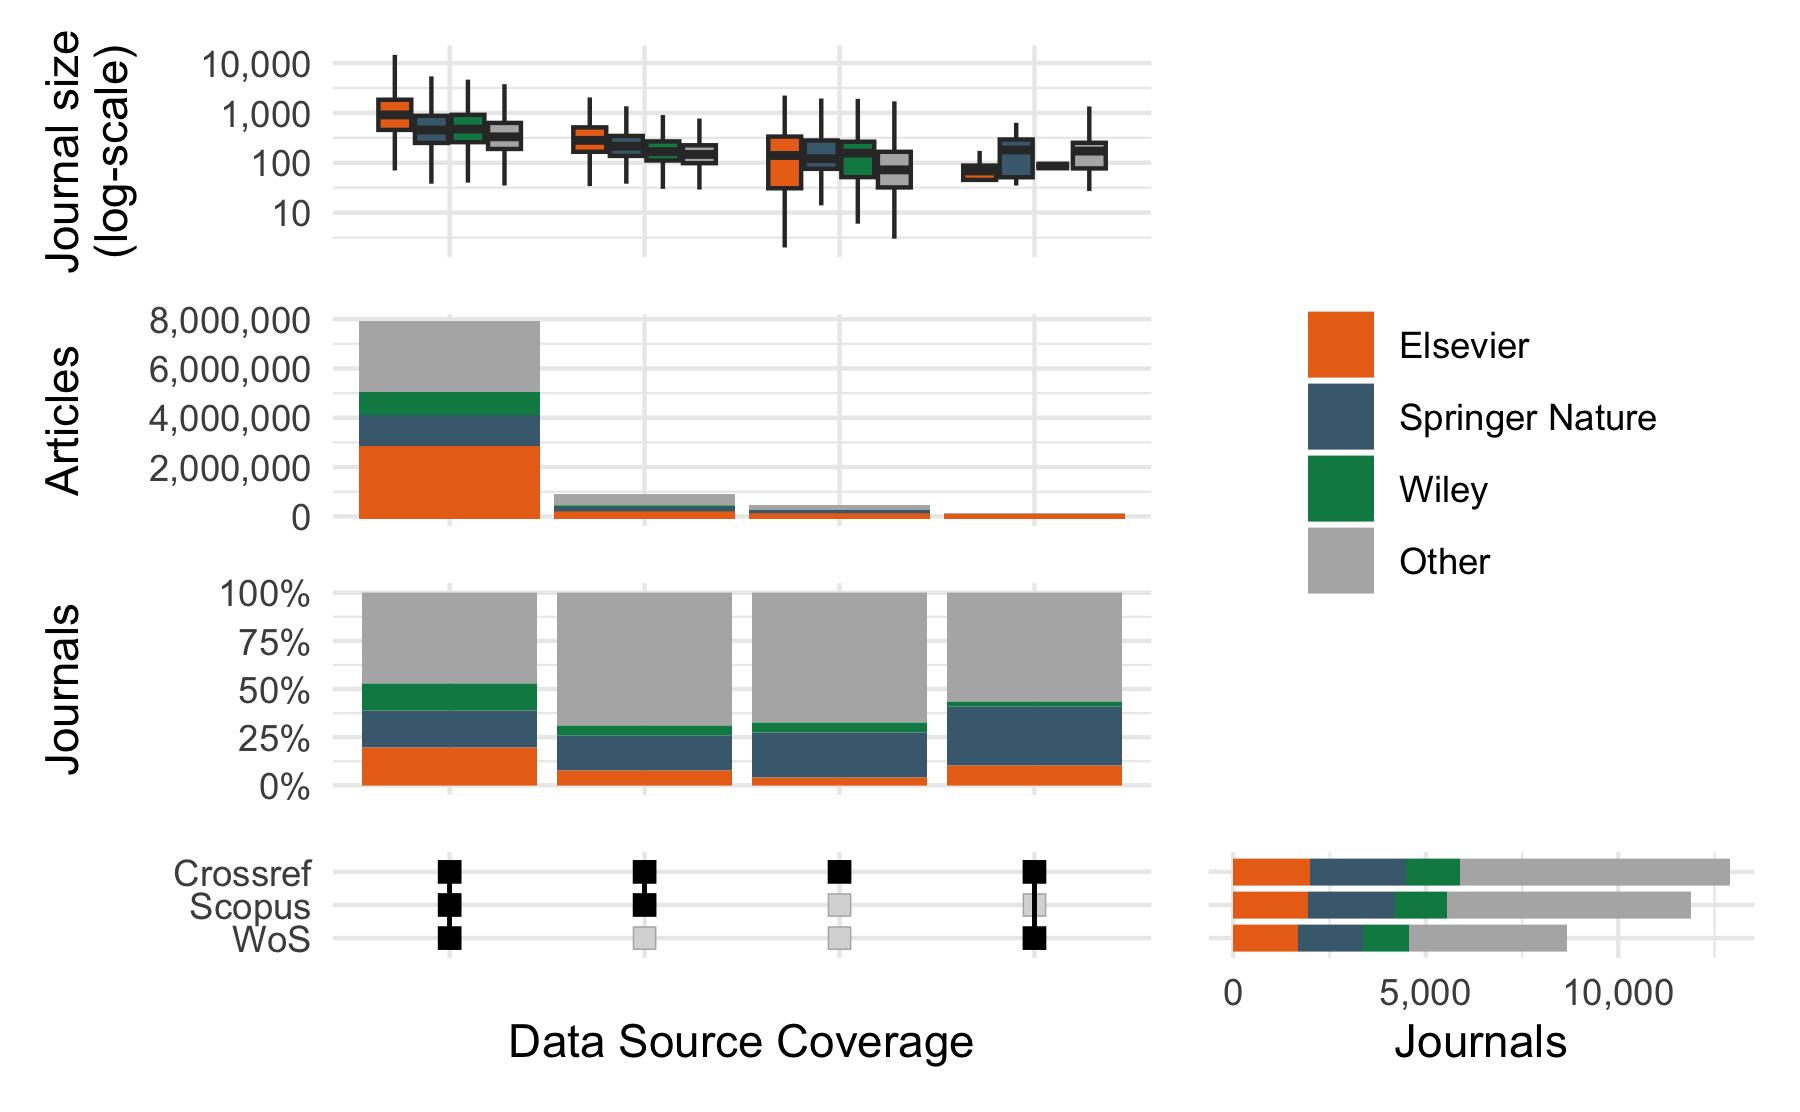
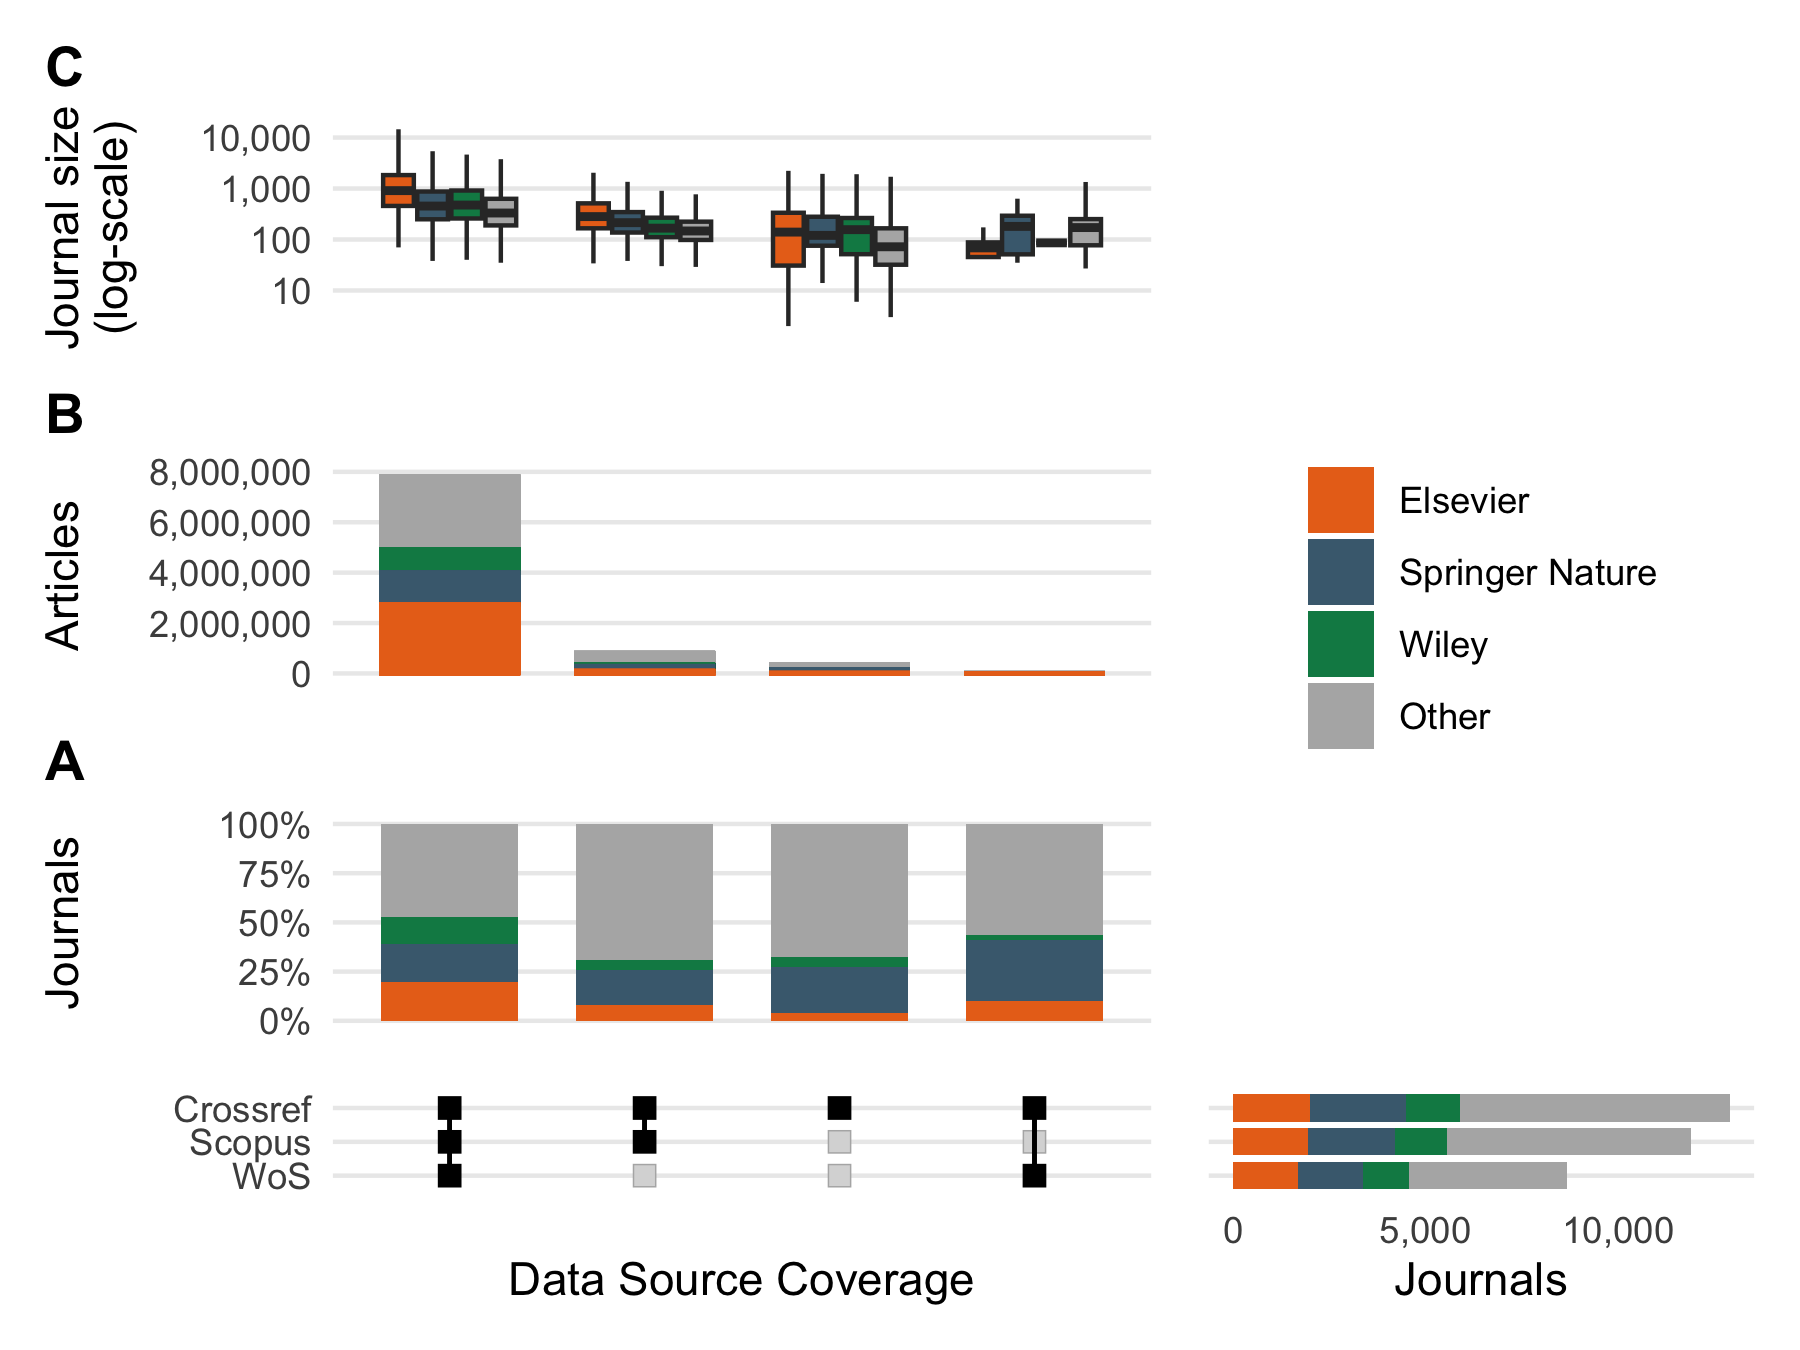
Style upset plots

diff --git a/analysis/results.md b/analysis/results.md
@@ -16,6 +16,15 @@ bq_con <- dbConnect(
   billing = "subugoe-collaborative",
   project = "subugoe-collaborative"
 )
+
+# Set themes for plots
+my_base_size = 12
+
+my_upset_theme <-
+  theme(panel.grid.minor = element_blank(),
+        panel.grid.major.x = element_blank(),
+        plot.title.position="plot",
+        plot.title = element_text(hjust = 0, vjust = 1, face = "bold"))
 ```
 
 ## Research questions
@@ -211,10 +220,34 @@ jn_upset_articles <- jn_upset_ |>
   left_join(doi_overlap, by = "issn_l") 
 
 # Backup
+jn_upset_articles
+#> # A tibble: 12,921 × 11
+#>    issn_l     n_cr Crossref n_wos WoS   n_scp Scopus     n doi_in_wos_and_scopus
+#>    <chr>     <int> <lgl>    <int> <lgl> <int> <lgl>  <int>                 <dbl>
+#>  1 0001-0782  1467 TRUE      1625 TRUE   1464 TRUE    1467                  1282
+#>  2 0001-1541  1844 TRUE      1953 TRUE   1939 TRUE    1844                  1807
+#>  3 0001-2092  1359 TRUE      1463 TRUE   1040 TRUE    1359                   868
+#>  4 0001-2785   875 TRUE        NA FALSE    NA FALSE    875                     0
+#>  5 0001-2998   326 TRUE       336 TRUE    343 TRUE     326                   314
+#>  6 0001-3072   144 TRUE       142 TRUE    141 TRUE     144                   141
+#>  7 0001-3455   120 TRUE        NA FALSE    NA FALSE    120                     0
+#>  8 0001-4338   793 TRUE       757 TRUE    765 TRUE     793                   723
+#>  9 0001-4346  1108 TRUE      1023 TRUE    993 TRUE    1108                   988
+#> 10 0001-4370   526 TRUE       526 TRUE    525 TRUE     526                   525
+#> # ℹ 12,911 more rows
+#> # ℹ 2 more variables: doi_in_scopus <dbl>, doi_in_wos <dbl>
 write_csv(jn_upset_articles, here::here("data/jn_upset_articles.csv"))
 ```
 
 ``` r
+# Helper function to make text labels the same size as axis labels as seen in
+# <https://wjschne.github.io/posts/making-text-labels-the-same-size-as-axis-labels-in-ggplot2/>
+# Todo: Learn how to invoke it
+ggtext_size <- function(base_size, ratio = 0.8) {
+  ratio * base_size / ggplot2::.pt
+}
+
+bar_width <- 0.7
 size <- get_size_mode("exclusive_intersection")
 
 upset_overview <- ComplexUpset::upset(
@@ -222,53 +255,78 @@ upset_overview <- ComplexUpset::upset(
   c("Crossref", "WoS", "Scopus"),
   # Only journals in Crossref
   min_size = 30,
-  width_ratio = 0.4,
   set_sizes = FALSE,
   stripes = "transparent",
- # wrap = TRUE,
+  # wrap = TRUE,
   name = "Data Source Coverage",
   base_annotations = list(
     "Journals" = (
       ComplexUpset::intersection_size(
         counts = TRUE,
-        text = list(size = 9 / .pt),
+        text = list(size = 8 / .pt),
         text_mapping = aes(
           label = paste0(!!upset_text_percentage(), '\n(', !!size, ')'),
           colour = ifelse(!!size > 5000, 'on_bar', 'on_background'),
           y = ifelse(!!size > 5000, !!size - 4000, !!size)
-        )
+        ), width = bar_width
       ) +
-        scale_y_continuous(labels = scales::number_format(big.mark = ","))
+        scale_y_continuous(labels = scales::number_format(big.mark = ",")) +
+        ggtitle("A")
     )
   ),
-  annotations = list("Journal size\n(log scale)" = (
-    ggplot(mapping = aes(x = intersection, y = n)) +
-      geom_boxplot(outliers = FALSE) +
-      scale_y_log10(labels =  scales::number_format(big.mark = ","))),
-    "Articles" = (ggplot(mapping = aes(y = n_cr)) +
-                        geom_bar(stat = "identity", color = "grey80", aes(fill = "in Crossref only")) +
-                        geom_bar(aes(y = doi_in_wos_and_scopus, fill = "Shared"), stat = "identity", color = "#0093c7") +
-                        geom_bar(aes(y = doi_in_wos, fill = "Shared"), stat = "identity", color = "#0093c7") +
-                        geom_bar(aes(y = doi_in_scopus, fill = "Shared"), stat = "identity", color = "#0093c7") +
-                        scale_fill_manual(values = c(`in Crossref only` = "grey80", `Shared` = "#0093c7"), name = "") +
-                        scale_y_continuous(labels =  scales::number_format(big.mark = ",")) +
-                        theme(
-    legend.position = "top",
-    legend.justification = "right"
-  ) +
-    guides(fill = "none")
-    )),
-   matrix = (
-        intersection_matrix(
-            geom = geom_point(
-                shape = "square",
-                size = 2
-            )))
-        ) 
-upset_overview
+  annotations = list(
+    "Journal size\n(log scale)" = (
+      ggplot(mapping = aes(x = intersection, y = n)) +
+        geom_boxplot(outliers = FALSE, width = bar_width) +
+        scale_y_log10(labels =  scales::number_format(big.mark = ",")) +
+        ggtitle("C")
+    ),
+    "Articles" = (
+      ggplot(mapping = aes(y = n_cr)) +
+        geom_bar(
+          stat = "identity",
+          color = "grey80",
+          width = bar_width,
+          aes(fill = "in Crossref only")
+        ) +
+        geom_bar(
+          aes(y = doi_in_wos_and_scopus, fill = "Shared"),
+          stat = "identity",
+          width = bar_width,
+          color = "#0093c7"
+        ) +
+        geom_bar(
+          aes(y = doi_in_wos, fill = "Shared"),
+          stat = "identity",
+          width = bar_width,
+          color = "#0093c7"
+        ) +
+        geom_bar(
+          aes(y = doi_in_scopus, fill = "Shared"),
+          stat = "identity",
+          width = bar_width,
+          color = "#0093c7"
+        ) +
+        scale_fill_manual(
+          values = c(
+            `in Crossref only` = "grey80",
+            `Shared` = "#0093c7"
+          ),
+          name = "DOI"
+        ) +
+        scale_y_continuous(labels =  scales::number_format(big.mark = ",")) +
+        ggtitle("B")
+    )
+  ),
+  matrix = (intersection_matrix(geom = geom_point(
+    shape = "square", size = 2
+  )))
+)
+upset_overview & my_upset_theme
 ```
 
 <img src="results_files/figure-gfm/journal_article_overlap_upset-1.png" width="70%" style="display: block; margin: auto;" />
+
 The plot is limited to journals, which are indexed in Crossref. However,
 there are 33 journals not incldued in Crossref, but in WoS or Scopus:
 
@@ -417,7 +475,7 @@ upset_publisher_plot <- ComplexUpset::upset(
   annotations = list(
     "Journal size\n(log-scale)" = (
       ggplot(mapping = aes(x = intersection, y = n, fill = fct_rev(publisher))) +
-        geom_boxplot(outliers = FALSE) +
+        geom_boxplot(outliers = FALSE, width = bar_width) +
         scale_fill_manual(
           "",
           values = c(
@@ -426,11 +484,12 @@ upset_publisher_plot <- ComplexUpset::upset(
             "Wiley" = "#068853",
             "Other" = "#b3b3b3"
           ), guide = "none") +
-        scale_y_log10(labels = scales::number_format(big.mark = ",")) 
+        scale_y_log10(labels = scales::number_format(big.mark = ",")) +
+        ggtitle("C")
     ),
     "Articles" = (
       ggplot(mapping = aes(y = n, fill = publisher, color = publisher)) +
-        geom_bar(stat = "identity") +
+        geom_bar(stat = "identity", width = bar_width) +
         scale_fill_manual(
           "",
           values = c(
@@ -446,11 +505,12 @@ upset_publisher_plot <- ComplexUpset::upset(
             "Wiley" = "#068853",
             "Other" = "#b3b3b3"
           ), guide = "none"
-        ) + scale_y_continuous(labels = scales::number_format(big.mark = ",")) 
+        ) + scale_y_continuous(labels = scales::number_format(big.mark = ",")) +
+        ggtitle("B") 
     ),
     "Publisher" = (
       ggplot(mapping = aes(fill = publisher)) +
-        geom_bar(stat = "count", position = "fill") + 
+        geom_bar(stat = "count", position = "fill", width = bar_width) + 
         scale_y_continuous("Journals", labels = scales::percent_format()) +
         scale_fill_manual(
           "",
@@ -459,7 +519,8 @@ upset_publisher_plot <- ComplexUpset::upset(
             "Springer Nature" = "#486a7e",
             "Wiley" = "#068853",
             "Other" = "#b3b3b3"
-          ), guide = "none")
+          ), guide = "none") +
+        ggtitle("A")
     )
   ),
   set_sizes = (
@@ -491,7 +552,7 @@ upset_publisher_plot <- ComplexUpset::upset(
   )
 )
 
-upset_publisher_plot 
+upset_publisher_plot & my_upset_theme 
 ```
 
 <img src="results_files/figure-gfm/upset_publisher_plot-1.png" width="70%" style="display: block; margin: auto;" />
